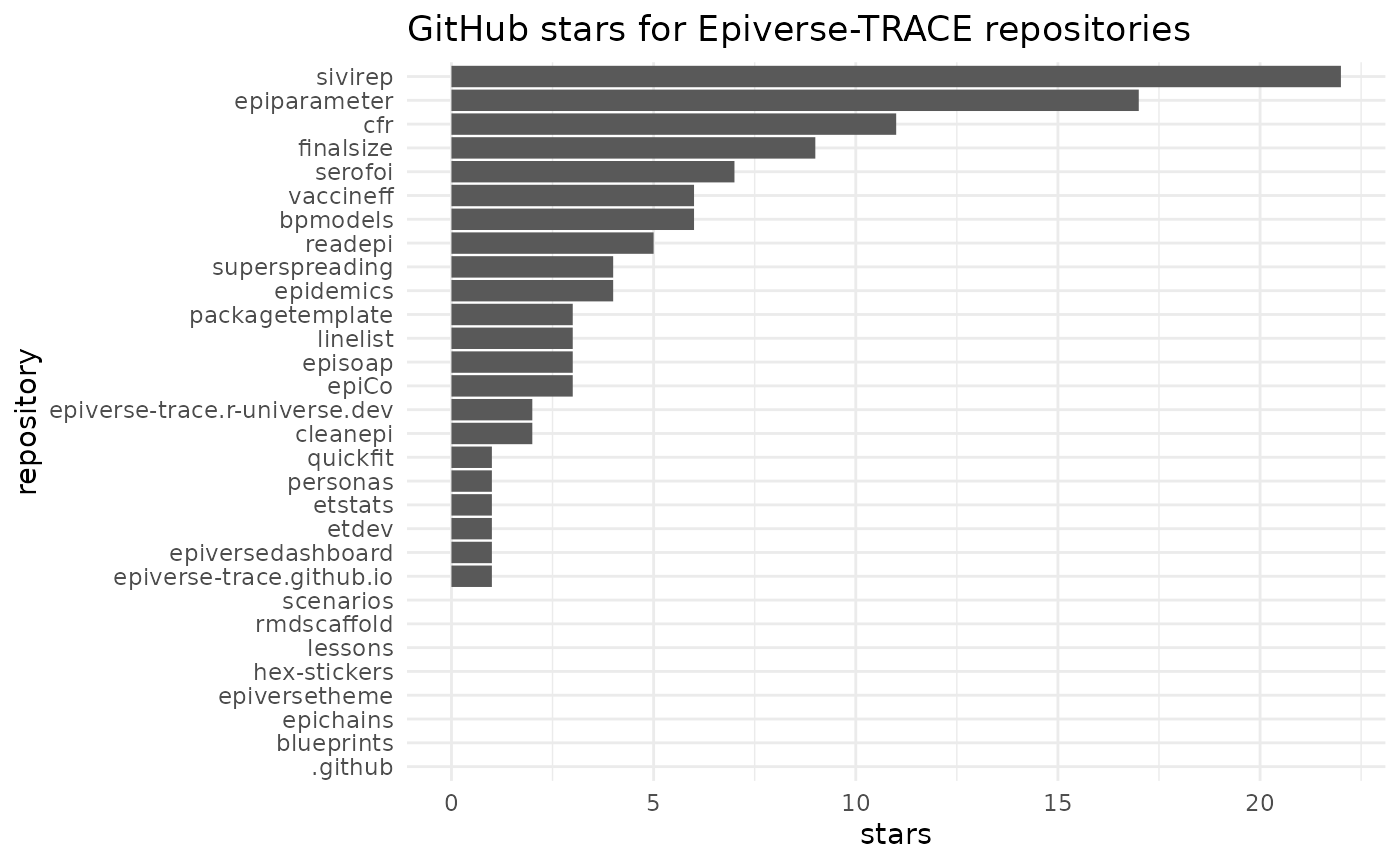
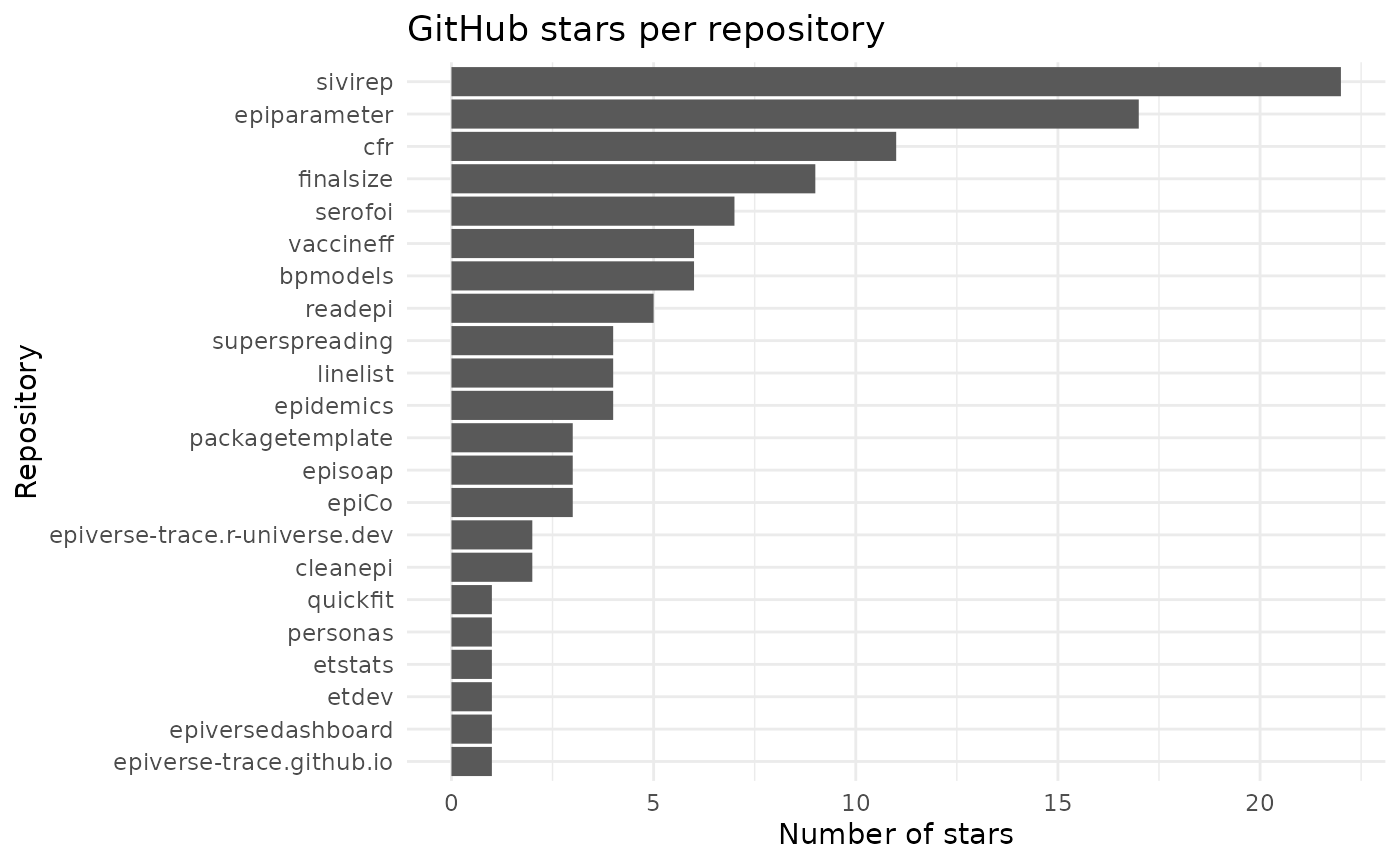
Deploying to gh-pages from @ epiverse-trace/etstats@a45df0a50f0e9967dcbe4060cceedd4d2f912263 🚀

diff --git a/articles/github-statistics.html b/articles/github-statistics.html
@@ -79,7 +79,7 @@
   <main id="main" class="col-md-9"><div class="page-header">
       <img src="" class="logo" alt=""><h1>GitHub statistics</h1>
             
-            <h4 data-toc-skip class="date">2023-12-06</h4>
+            <h4 data-toc-skip class="date">2023-12-11</h4>
       
       <small class="dont-index">Source: <a href="https://github.com/epiverse-trace/etstats/blob/HEAD/vignettes/github-statistics.Rmd" class="external-link"><code>vignettes/github-statistics.Rmd</code></a></small>
       <div class="d-none name"><code>github-statistics.Rmd</code></div>
@@ -90,9 +90,142 @@
 <div class="section level2">
 <h2 id="github-stars">GitHub stars ⭐<a class="anchor" aria-label="anchor" href="#github-stars"></a>
 </h2>
-<p>In total, we have 113 stars across all Epiverse-TRACE packages. These
-stars come from 73 unique users.</p>
+<div class="section level3">
+<h3 id="totals">Totals<a class="anchor" aria-label="anchor" href="#totals"></a>
+</h3>
+<p>In total, we have 114 stars across all Epiverse-TRACE packages. These
+stars come from 74 unique users.</p>
 <p><img src="github-statistics_files/figure-html/unnamed-chunk-4-1.png" width="700"></p>
+</div>
+<div class="section level3">
+<h3 id="over-time">Over time<a class="anchor" aria-label="anchor" href="#over-time"></a>
+</h3>
+<p><img src="github-statistics_files/figure-html/unnamed-chunk-5-1.png" width="700"></p>
+<table class="table">
+<thead><tr class="header">
+<th align="left">repository</th>
+<th align="right">2022</th>
+<th align="right">2023</th>
+</tr></thead>
+<tbody>
+<tr class="odd">
+<td align="left">bpmodels</td>
+<td align="right">1</td>
+<td align="right">3</td>
+</tr>
+<tr class="even">
+<td align="left">cfr</td>
+<td align="right">2</td>
+<td align="right">9</td>
+</tr>
+<tr class="odd">
+<td align="left">epiparameter</td>
+<td align="right">8</td>
+<td align="right">9</td>
+</tr>
+<tr class="even">
+<td align="left">epiverse-trace.r-universe.dev</td>
+<td align="right">2</td>
+<td align="right">0</td>
+</tr>
+<tr class="odd">
+<td align="left">epiversedashboard</td>
+<td align="right">1</td>
+<td align="right">0</td>
+</tr>
+<tr class="even">
+<td align="left">finalsize</td>
+<td align="right">4</td>
+<td align="right">5</td>
+</tr>
+<tr class="odd">
+<td align="left">linelist</td>
+<td align="right">3</td>
+<td align="right">1</td>
+</tr>
+<tr class="even">
+<td align="left">readepi</td>
+<td align="right">3</td>
+<td align="right">2</td>
+</tr>
+<tr class="odd">
+<td align="left">superspreading</td>
+<td align="right">1</td>
+<td align="right">3</td>
+</tr>
+<tr class="even">
+<td align="left">cleanepi</td>
+<td align="right">0</td>
+<td align="right">2</td>
+</tr>
+<tr class="odd">
+<td align="left">epiCo</td>
+<td align="right">0</td>
+<td align="right">3</td>
+</tr>
+<tr class="even">
+<td align="left">epidemics</td>
+<td align="right">0</td>
+<td align="right">4</td>
+</tr>
+<tr class="odd">
+<td align="left">episoap</td>
+<td align="right">0</td>
+<td align="right">3</td>
+</tr>
+<tr class="even">
+<td align="left">epiverse-trace.github.io</td>
+<td align="right">0</td>
+<td align="right">1</td>
+</tr>
+<tr class="odd">
+<td align="left">etdev</td>
+<td align="right">0</td>
+<td align="right">1</td>
+</tr>
+<tr class="even">
+<td align="left">etstats</td>
+<td align="right">0</td>
+<td align="right">1</td>
+</tr>
+<tr class="odd">
+<td align="left">packagetemplate</td>
+<td align="right">0</td>
+<td align="right">3</td>
+</tr>
+<tr class="even">
+<td align="left">personas</td>
+<td align="right">0</td>
+<td align="right">1</td>
+</tr>
+<tr class="odd">
+<td align="left">quickfit</td>
+<td align="right">0</td>
+<td align="right">1</td>
+</tr>
+<tr class="even">
+<td align="left">serofoi</td>
+<td align="right">0</td>
+<td align="right">7</td>
+</tr>
+<tr class="odd">
+<td align="left">sivirep</td>
+<td align="right">0</td>
+<td align="right">22</td>
+</tr>
+<tr class="even">
+<td align="left">vaccineff</td>
+<td align="right">0</td>
+<td align="right">6</td>
+</tr>
+<tr class="odd">
+<td align="left">Total</td>
+<td align="right">25</td>
+<td align="right">87</td>
+</tr>
+</tbody>
+</table>
+</div>
 </div>
   </main><aside class="col-md-3"><nav id="toc"><h2>On this page</h2>
     </nav></aside>

diff --git a/articles/cran-statistics.html b/articles/cran-statistics.html
@@ -79,7 +79,7 @@
   <main id="main" class="col-md-9"><div class="page-header">
       <img src="" class="logo" alt=""><h1>CRAN statistics</h1>
             
-            <h4 data-toc-skip class="date">2023-12-06</h4>
+            <h4 data-toc-skip class="date">2023-12-11</h4>
       
       <small class="dont-index">Source: <a href="https://github.com/epiverse-trace/etstats/blob/HEAD/vignettes/cran-statistics.Rmd" class="external-link"><code>vignettes/cran-statistics.Rmd</code></a></small>
       <div class="d-none name"><code>cran-statistics.Rmd</code></div>
@@ -93,7 +93,7 @@
 <li><a href="https://cran.r-project.org/package=finalsize" class="external-link">finalsize</a></li>
 <li><a href="https://cran.r-project.org/package=linelist" class="external-link">linelist</a></li>
 </ul>
-<p>In total, Epiverse-TRACE packages on CRAN have been downloaded 11336
+<p>In total, Epiverse-TRACE packages on CRAN have been downloaded 11526
 times.</p>
 <p>Below is a visualization of the breakdown of this grand total by
 package over time.</p>
@@ -108,22 +108,22 @@ package over time.</p>
 <tr class="odd">
 <td align="left">finalsize</td>
 <td align="right">260</td>
-<td align="right">2700</td>
+<td align="right">2741</td>
 </tr>
 <tr class="even">
 <td align="left">linelist</td>
 <td align="right">3712</td>
-<td align="right">4493</td>
+<td align="right">4595</td>
 </tr>
 <tr class="odd">
 <td align="left">cfr</td>
 <td align="right">NA</td>
-<td align="right">171</td>
+<td align="right">218</td>
 </tr>
 <tr class="even">
 <td align="left">Total</td>
 <td align="right">3972</td>
-<td align="right">7364</td>
+<td align="right">7554</td>
 </tr>
 </tbody>
 </table></main>
